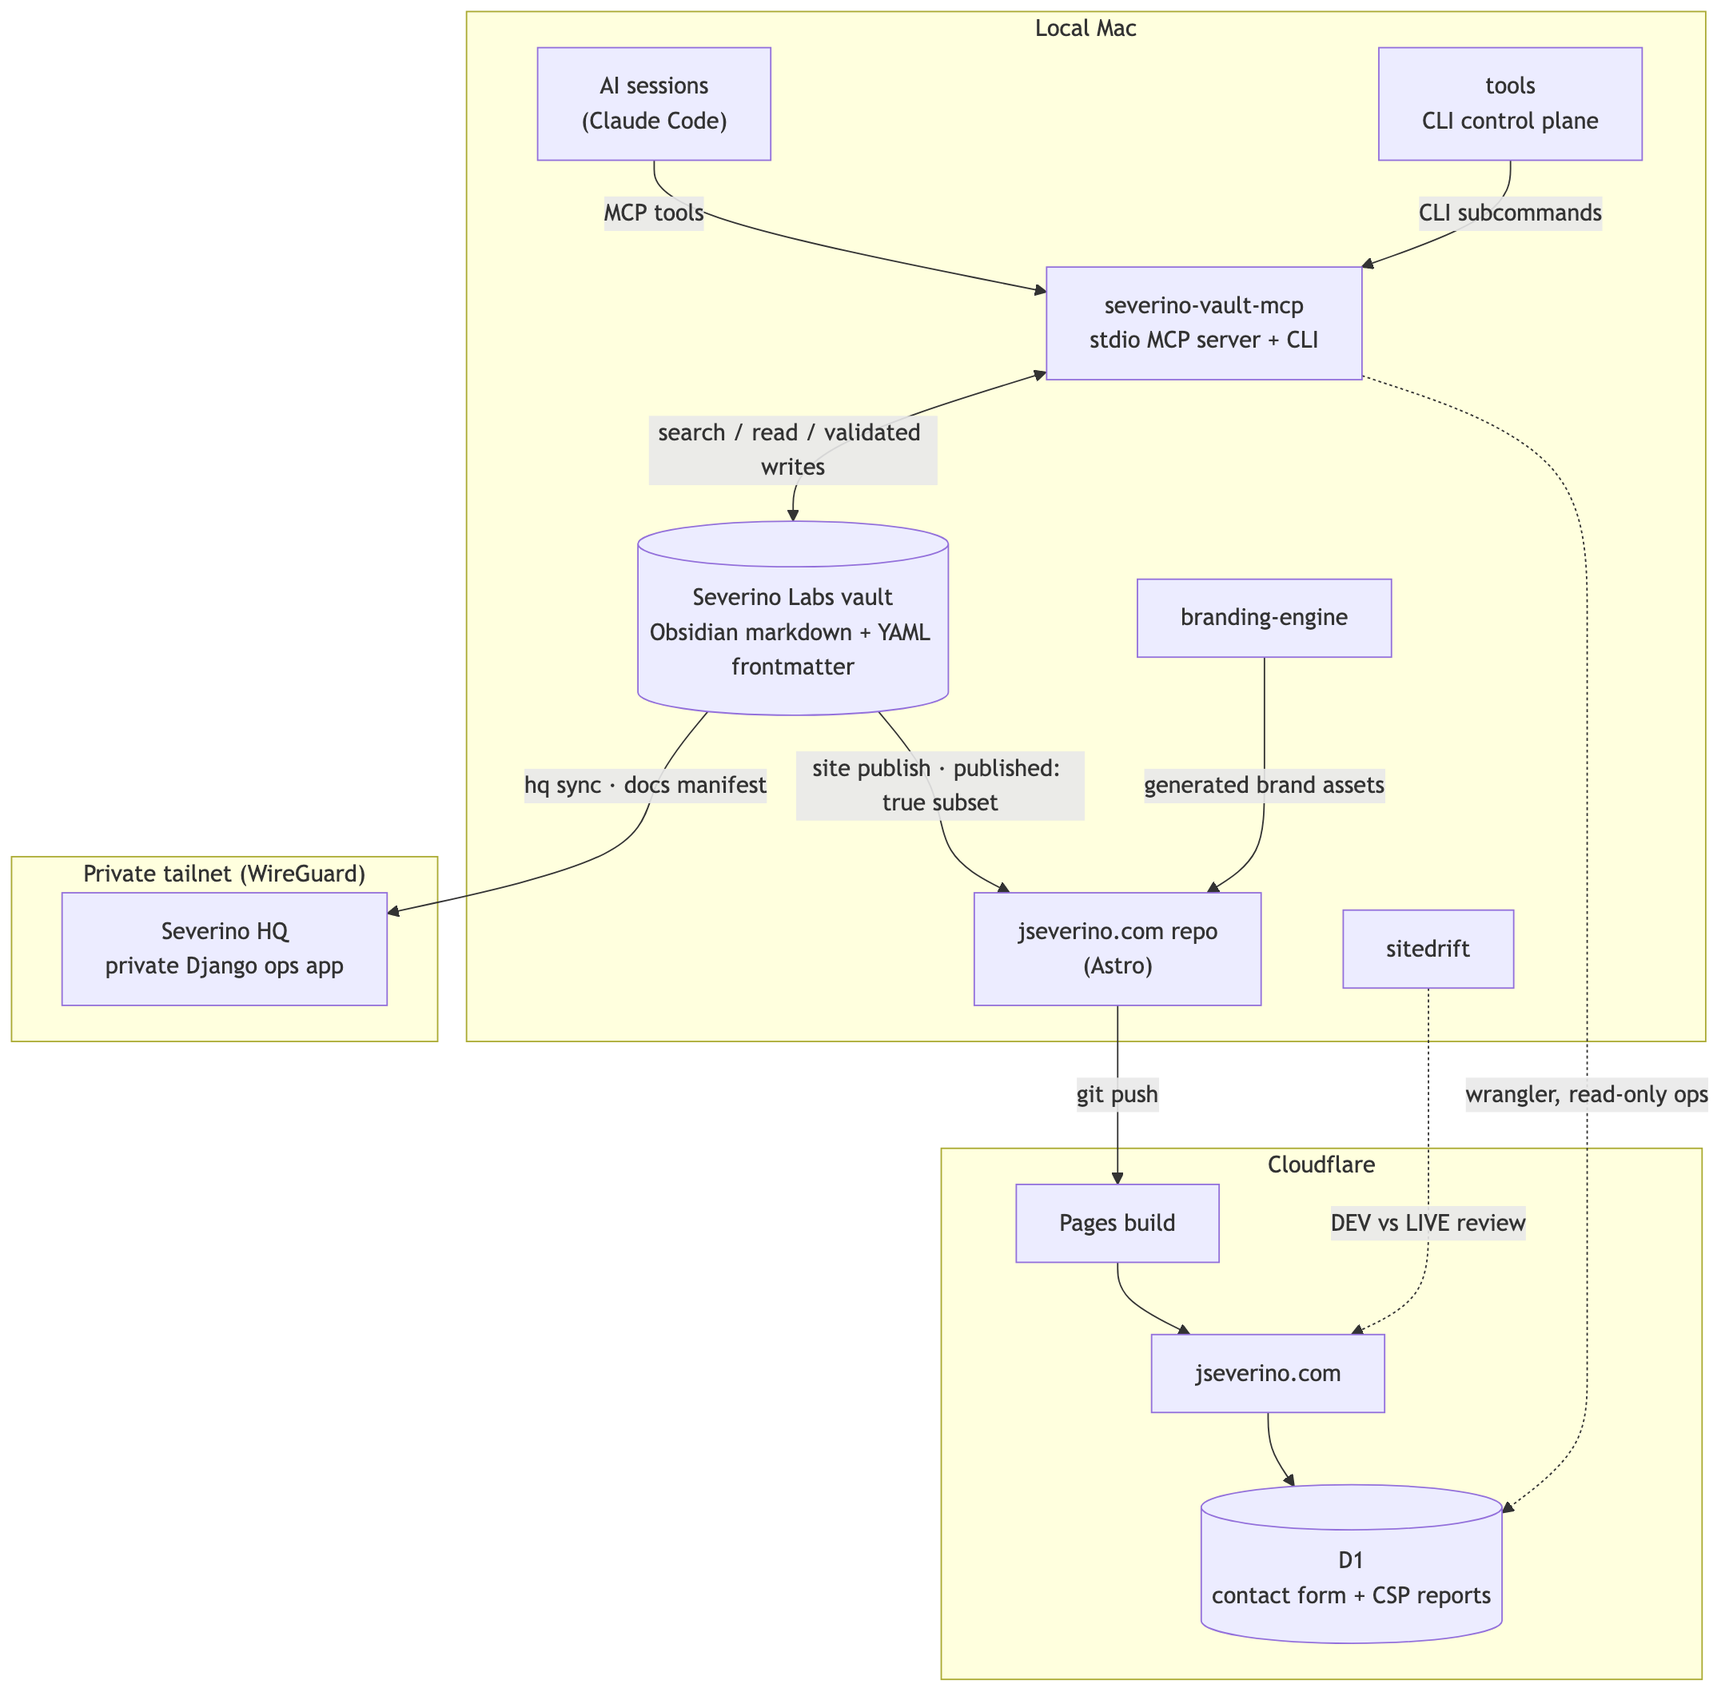
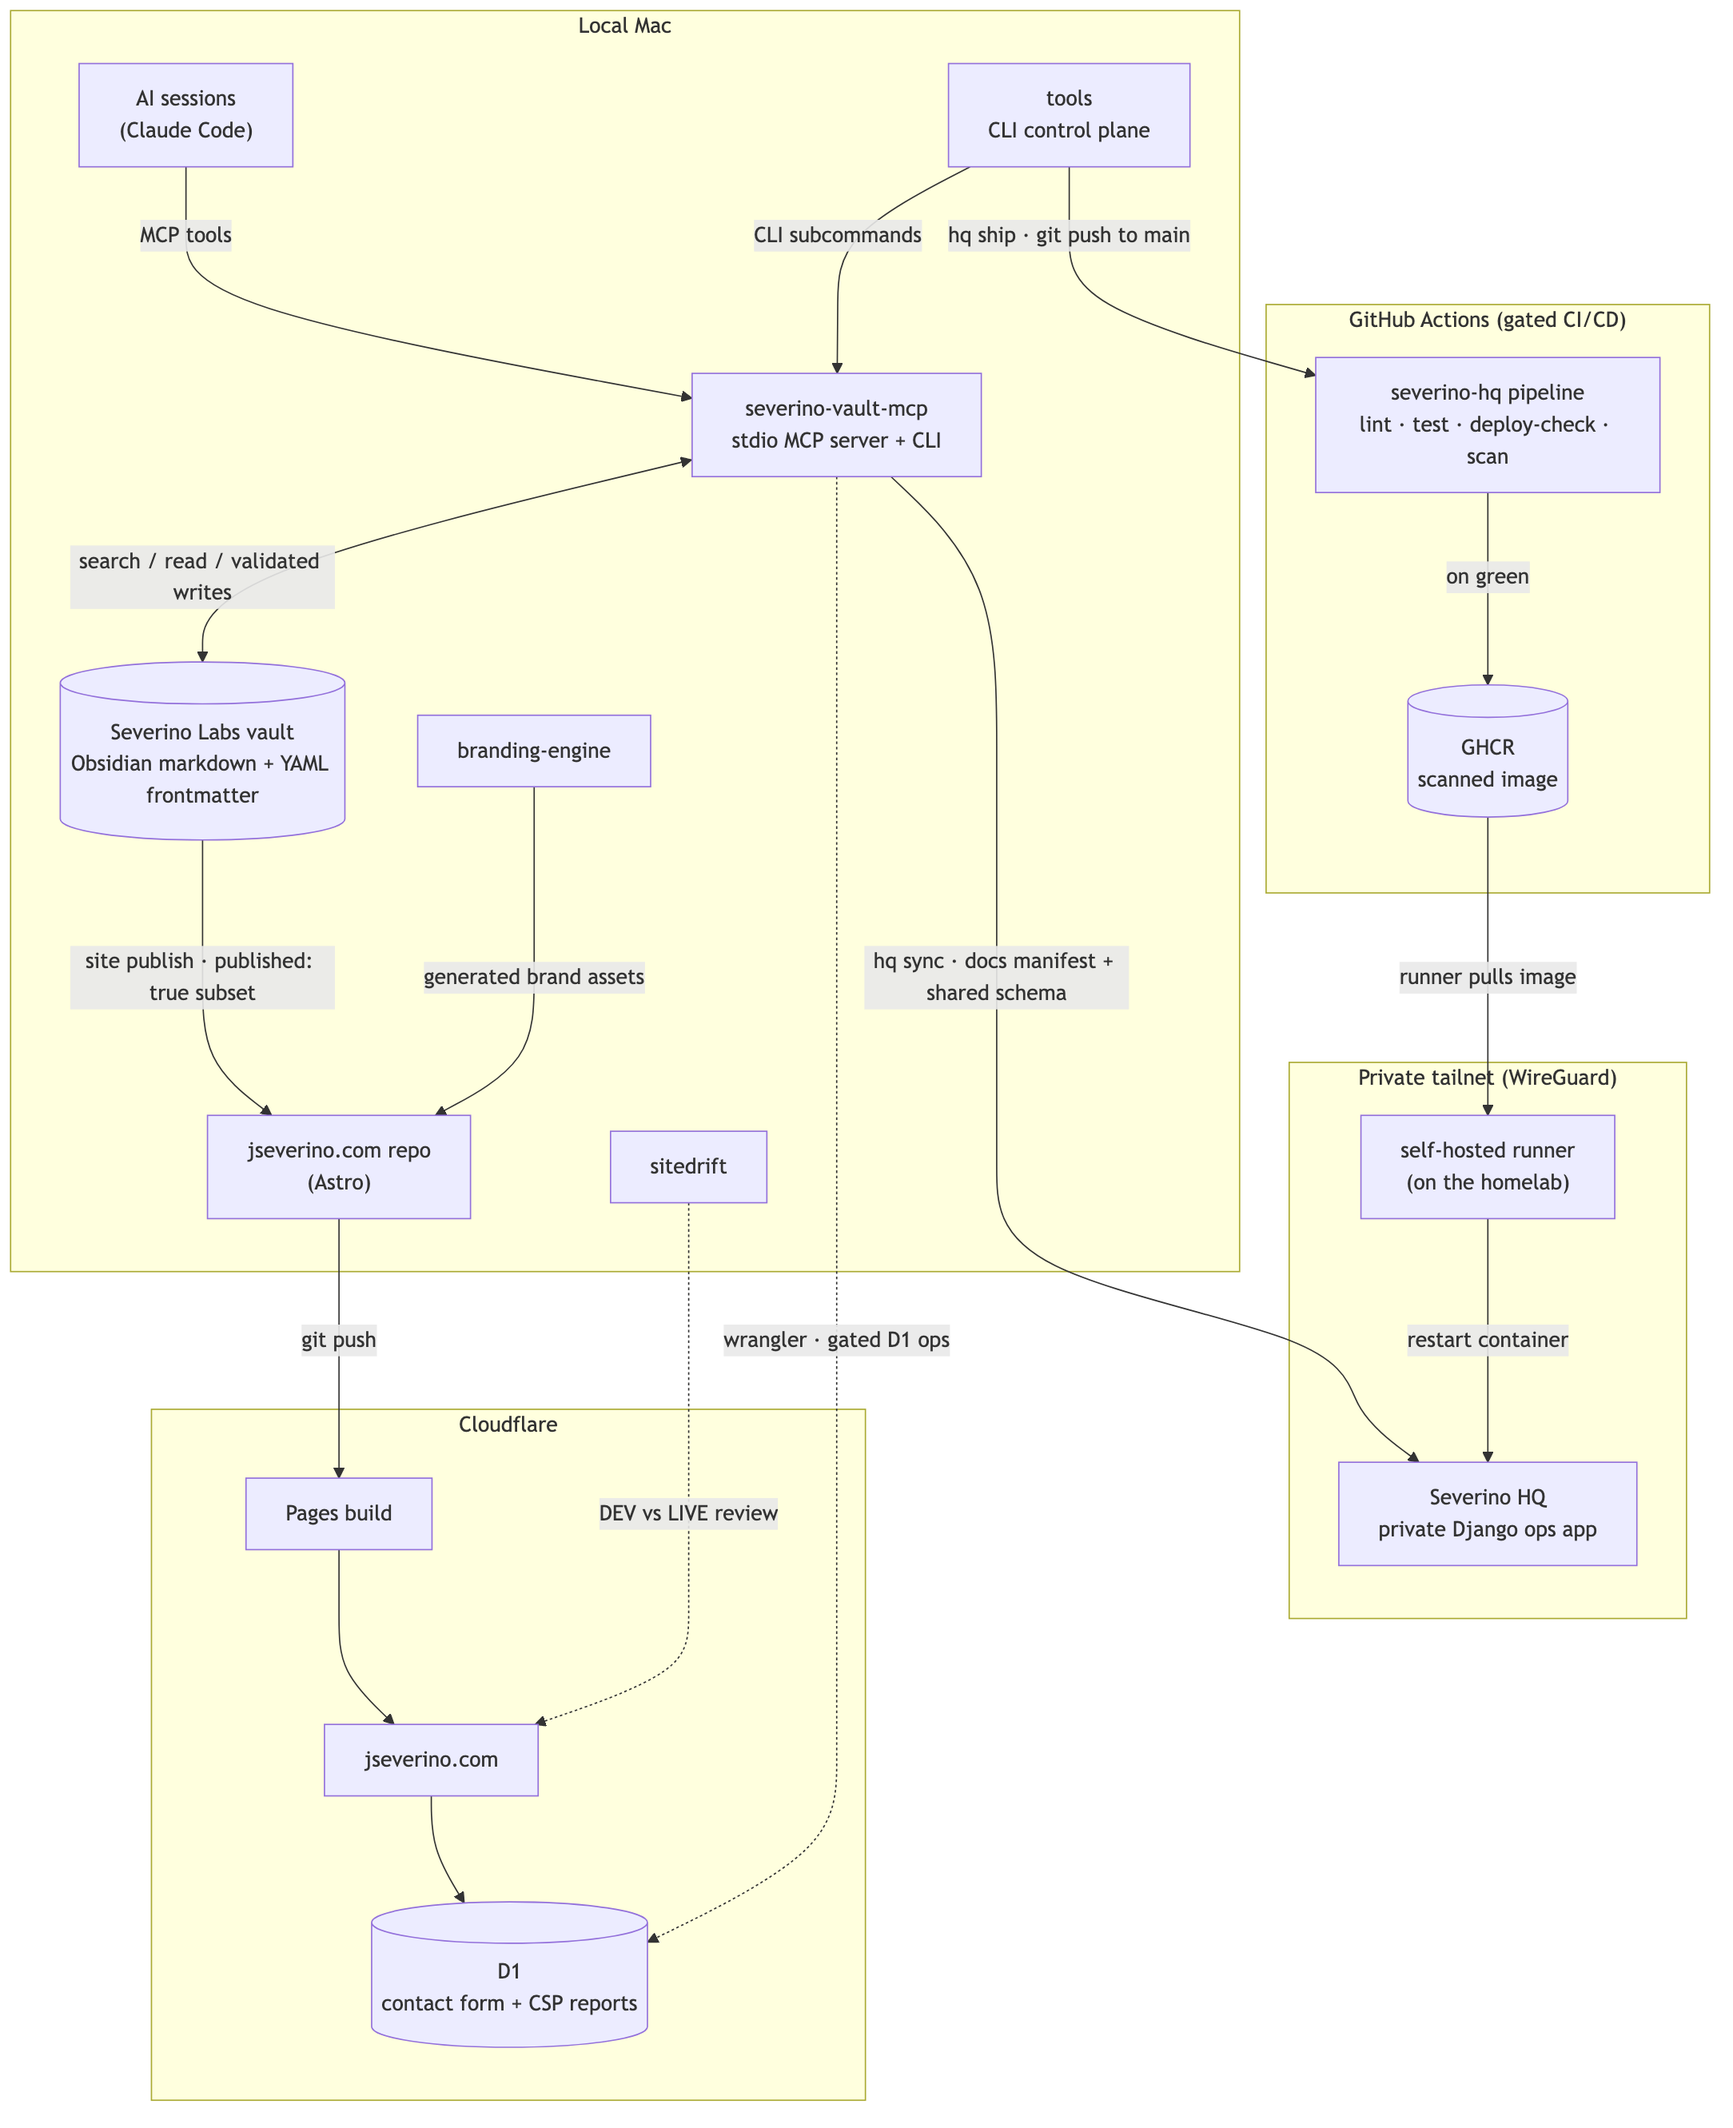
Feature severino-hq; show its gated CI/CD deploy in the architecture map
- Add severino-hq to Featured Projects; reorder to vault-mcp, jseverino.com, tools, severino-hq, then the rest; drop branding-engine from featured.

- Link the Severino HQ section to the now-public repo and replace the stale deploy-key prose with the gated GitHub Actions pipeline.

- architecture.mmd: add the CI -> GHCR -> self-hosted runner -> HQ deploy lane (runner modeled inside the tailnet) so HQ shows both sync and deploy arrows; re-render.

- readme-flow: hq sync flows from the MCP, not the vault.

diff --git a/ARCHITECTURE.md b/ARCHITECTURE.md
@@ -15,7 +15,7 @@ build stories live on [jseverino.com](https://jseverino.com).
 
 ## The Map
 
-![The full system map: on the local Mac, AI sessions and the tools CLI drive severino-vault-mcp, which reads and writes the Severino Labs vault; the vault syncs a docs manifest to Severino HQ on the private tailnet and publishes the public subset into the jseverino.com Astro repo alongside branding-engine assets; a git push triggers the Cloudflare Pages build serving jseverino.com with D1 behind it, reviewed by sitedrift against live](diagrams/architecture.png)
+![The full system map: on the local Mac, AI sessions and the tools CLI drive severino-vault-mcp, which reads and writes the Severino Labs vault and syncs a docs manifest plus the shared schema to Severino HQ on the private tailnet; the vault's published subset is snapshotted into the jseverino.com Astro repo alongside branding-engine assets; a git push triggers the Cloudflare Pages build serving jseverino.com with D1 behind it, reviewed by sitedrift against live](diagrams/architecture.png)
 
 <sup>Diagram source: [`diagrams/architecture.mmd`](diagrams/architecture.mmd),
 pre-rendered with `diagrams/render.sh` so every browser sees the same
@@ -52,16 +52,22 @@ generic tutorial when I have my own four-line runbook.
   search + read together, because two-step tool choreography gave smaller
   models (LM Studio and friends) a chance to corrupt the doc ID between
   search and read. That came out of a real observed failure, not theory.
-- **Two faces, one code path.** The same Python functions are exposed as MCP
-  tools for AI sessions *and* as plain CLI subcommands for scripts. When the
-  `site` CLI validates a writeup, it runs the exact functions an AI session
-  would, so validation logic cannot drift between the interactive and
+- **Two faces, one code path.** The same FastMCP-free service functions are
+  exposed as MCP tools for AI sessions *and* as plain CLI subcommands for
+  scripts, returning one JSON result shape that the `site` CLI and its terminal
+  UI both parse. When the `site` CLI validates a writeup it runs the exact
+  functions an AI session would, so validation, writes, schema, and atomic file
+  replacement all live once and cannot drift between the interactive and
   scripted paths.
-- **Reaches the edge, read-only.** Operational tools list contact-form
-  submissions and CSP violation reports from Cloudflare D1 via wrangler, so
-  triage happens in the same session as everything else.
+- **Reaches the edge, read-only, same gate.** Operational tools list
+  contact-form submissions and CSP violation reports from Cloudflare D1 via
+  wrangler, so triage happens in the same session as everything else. Contact
+  PII is redacted by default — names abbreviated, emails masked, message
+  previewed — and full release takes the same explicit, audited unlock as a
+  `restricted` doc body. The sensitivity gate covers operator PII, not just the
+  vault.
 
-### Severino HQ — the private ops app
+### [Severino HQ](https://github.com/joeseverino/severino-hq) — the private ops app
 
 A Django 5 app (SQLite + gunicorn) running as a Docker Engine container on the
 homelab server, with named volumes for data, media, and exports. Reachable
@@ -75,10 +81,19 @@ structure.** `hq sync` regenerates HQ's records from vault frontmatter:
 metadata, relationships, and pointers only. Runbook bodies and secrets never
 enter HQ, so its database is never the interesting target.
 
-Deployment is one command: `hq ship` runs local checks, commits, pushes, has
-the server pull over a **read-only deploy key** (the server can never push),
-rebuilds the container, runs a remote Django check, and re-syncs the docs
-index. My primary SSH keys never exist on the server.
+The frontmatter contract HQ validates against isn't HQ's own copy — it's the
+MCP's schema, emitted as JSON and committed into HQ, so the importer can never
+reject a value the MCP just wrote. One definition, enforced on both sides of
+the sync.
+
+Deployment is a gated pipeline, not an SSH session. A push to `main` (via git
+or `hq ship`) runs the checks in GitHub Actions — lint, tests on two Python
+versions, a `check --deploy` posture gate, and pip-audit — then builds a
+container image, scans it with Trivy, and **only on green** does a self-hosted
+runner on the homelab pull the scanned image from GHCR and restart the
+container. The runner dials out to GitHub; nothing inbound is ever opened,
+there is no SSH in the deploy path at all, and a red commit physically cannot
+reach the box.
 
 ### [jseverino.com](https://github.com/joeseverino/jseverino.com) — the public subset
 
@@ -149,9 +164,12 @@ bookkeeping.
 *The `site manage` TUI editing one writeup's frontmatter: every save goes
 through the MCP's validated code path, never raw YAML edits.*
 
-**An HQ code change.** `hq ship -m "fix dashboard"`: checks, commit, push,
-server pulls read-only, container rebuilds, remote Django check, docs
-re-sync. One command, and the failure of any step stops the rest.
+**An HQ code change.** `hq ship -m "fix dashboard"` runs local checks,
+commits, and pushes. The push triggers the gated GitHub Actions pipeline —
+lint, tests, deploy-posture check, pip-audit, image build, Trivy scan — and
+only when every gate is green does the homelab's self-hosted runner pull the
+scanned image and restart the container. No step is manual, and a red commit
+can't ship.
 
 **A brand change.** Edit one value in the brand config, regenerate, and
 review the diff with sitedrift against live production. The comparison
@@ -172,6 +190,12 @@ gets a check instead of a convention:
   surfaces (vault schema doc, site Zod schema, MCP tool signature, MCP CLI
   flags, and the TUI editor) by a parity script that fails CI on any
   mismatch.
+- **Schema single-source.** The core frontmatter enums (doc types,
+  environments, sensitivities, ID prefixes) are defined once in the MCP and
+  emitted as JSON. Severino HQ validates its importer against that exact output,
+  and the vault's own schema doc is checked against it too, so the MCP can never
+  write a value HQ would reject. `hq schema --check` fails on any drift across
+  all three.
 - **Install drift.** The MCP ships a `--fingerprint` flag hashing its
   installed sources; doctor compares it against the source repo so a stale
   install can't silently disagree with the code.
@@ -219,8 +243,9 @@ edge.
    default.
 4. **Repeated operations become one command.** If a task needs a runbook's
    worth of shell commands, it gets folded into the CLI suite.
-5. **Every seam between two systems gets a check.** Parity scripts, doctor
-   commands, and fingerprints make integration drift loud instead of silent.
+5. **Every seam between two systems gets a check.** Parity scripts, a
+   single-source schema with `--check` guards, doctor commands, and fingerprints
+   make integration drift loud instead of silent.
 6. **AI is grounded or it is silent.** Assistants answer from real docs
    through the MCP, or say the doc doesn't exist — never from generic memory.
 

diff --git a/README.md b/README.md
@@ -9,11 +9,11 @@ Most of my projects are built around real systems I run myself: local AI tooling
 ## Featured Projects
 
 - **[severino-vault-mcp](https://github.com/joeseverino/severino-vault-mcp)** - Local-first MCP server that gives AI assistants safe access to an Obsidian operations vault. Layered CI security tooling (CodeQL, pip-audit, OSSF Scorecard, Dependabot), documented threat model, and a four-tier sensitivity gate for credential-adjacent content.
-- **[branding-engine](https://github.com/joeseverino/branding-engine)** - Published [npm package](https://www.npmjs.com/package/branding-engine) that generates favicons, vector marks, wordmarks, social cards, brand sheets, and web tokens from one color and monogram. It is the single-source brand renderer behind [jseverino.com](https://jseverino.com), with real font-outline rendering and provenance-attested GitHub releases.
-- **[sitedrift](https://github.com/joeseverino/sitedrift)** - Published [npm package](https://www.npmjs.com/package/sitedrift) for reviewing DEV against LIVE on the same route: Split, Overlay/Diff, and synchronized navigation, with response deltas and SEO checks, an MCP interface for AI collaborators, and a two-step Cloudflare Pages preview addon that leaves production unchanged.
 - **[jseverino.com](https://github.com/joeseverino/jseverino.com)** - Public Astro portfolio deployed on Cloudflare Pages from a private Obsidian vault. It uses branding-engine as its generated brand source and sitedrift on branch previews, alongside vault-to-content sync, static publishing checks, CSP hardening, and a D1-backed contact form protected by Turnstile.
-- **[severino-labs-security-layer](https://github.com/joeseverino/severino-labs-security-layer)** - Custom WordPress security plugin for application hardening, file integrity monitoring, security event logging, browser security headers, and passkey-first login customization.
 - **[tools](https://github.com/joeseverino/tools)** - Personal macOS CLI suite: age-based file encryption with Keychain-cached unlock, vault sync, dotfile backup, DNS latency diagnostics, and a bridge between an Obsidian vault and a private Django docs index. Every measured claim in its README is asserted by a CI benchmark, and doctor commands check each integration seam for drift.
+- **[severino-hq](https://github.com/joeseverino/severino-hq)** - Private Django 5 ops app that turns vault frontmatter into structured operational records (projects, assets, expenses, receipts, a docs index). Ships through a gated GitHub Actions pipeline — lint, multi-version tests, a Django deploy-posture check, pip-audit, and a Trivy image scan must all pass before a self-hosted homelab runner pulls the GHCR image and restarts the container, so nothing inbound is ever opened and a red commit can't reach the box. OIDC SSO via a self-hosted Pocket ID.
+- **[sitedrift](https://github.com/joeseverino/sitedrift)** - Published [npm package](https://www.npmjs.com/package/sitedrift) for reviewing DEV against LIVE on the same route: Split, Overlay/Diff, and synchronized navigation, with response deltas and SEO checks, an MCP interface for AI collaborators, and a two-step Cloudflare Pages preview addon that leaves production unchanged.
+- **[severino-labs-security-layer](https://github.com/joeseverino/severino-labs-security-layer)** - Custom WordPress security plugin for application hardening, file integrity monitoring, security event logging, browser security headers, and passkey-first login customization.
 - **[cert-generator](https://github.com/joeseverino/cert-generator)** - CLI that issues TLS certificates from a private root CA kept on an offline VM. Issuance is automated end to end (CSR generation, passphrase-gated signing, and cleanup that leaves no service keys behind on the CA host), so internal HTTPS never depends on CA key material touching a networked machine.
 
 ## How It Fits Together
@@ -21,7 +21,7 @@ Most of my projects are built around real systems I run myself: local AI tooling
 Most of these projects are pieces of one system: a private Obsidian vault is
 the single source of truth, and everything else derives from it.
 
-![AI sessions and the tools CLI drive severino-vault-mcp through one shared code path; the MCP reads and writes the Obsidian vault, which syncs to Severino HQ and publishes the public subset to jseverino.com](diagrams/readme-flow.png)
+![AI sessions and the tools CLI drive severino-vault-mcp through one shared code path; the MCP reads and writes the Obsidian vault and syncs the docs manifest to Severino HQ, while the vault's published subset goes to jseverino.com](diagrams/readme-flow.png)
 
 The full map, with every component, how they talk, and the whys, is in
 **[ARCHITECTURE.md](ARCHITECTURE.md)**.
